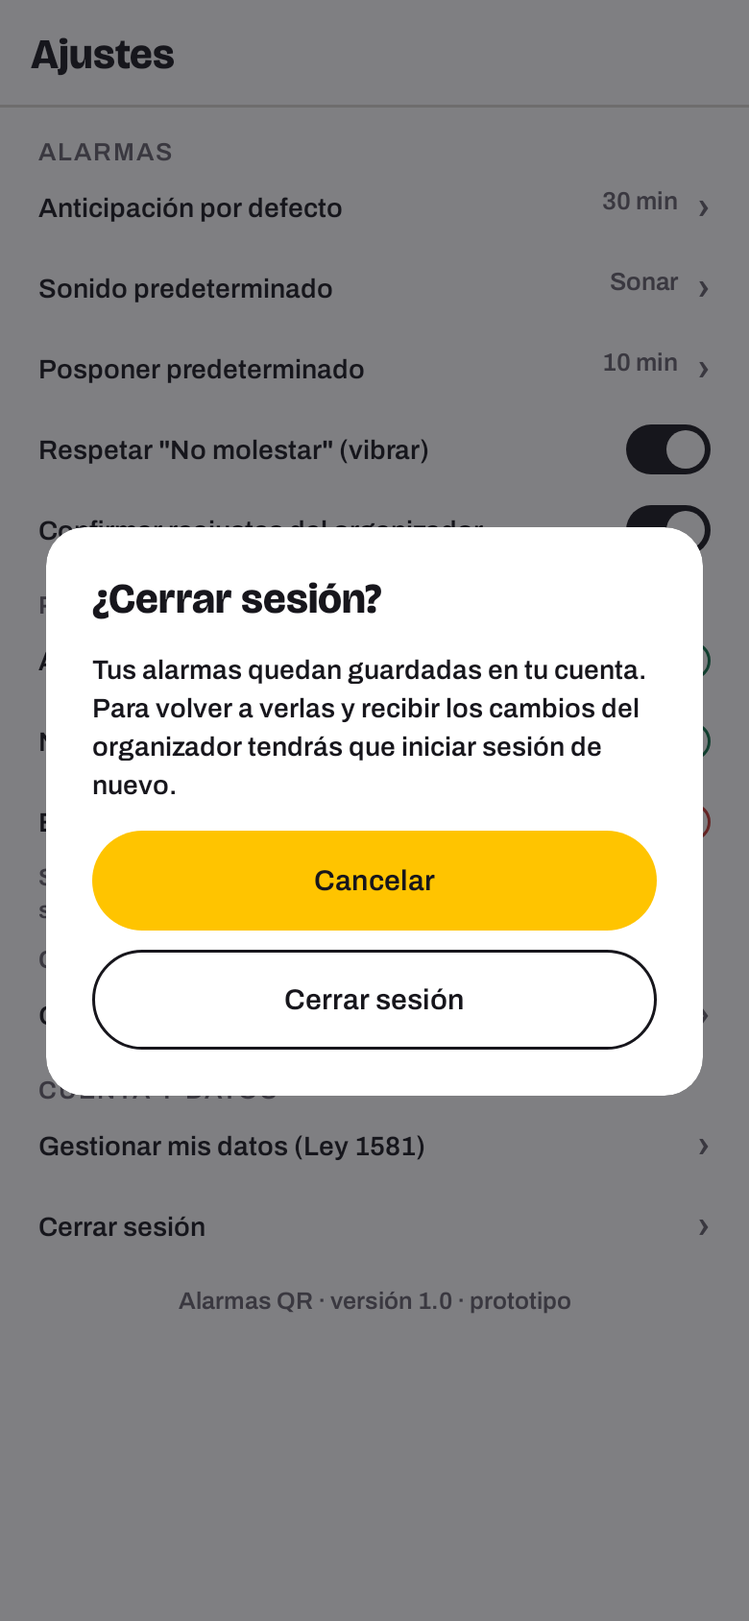
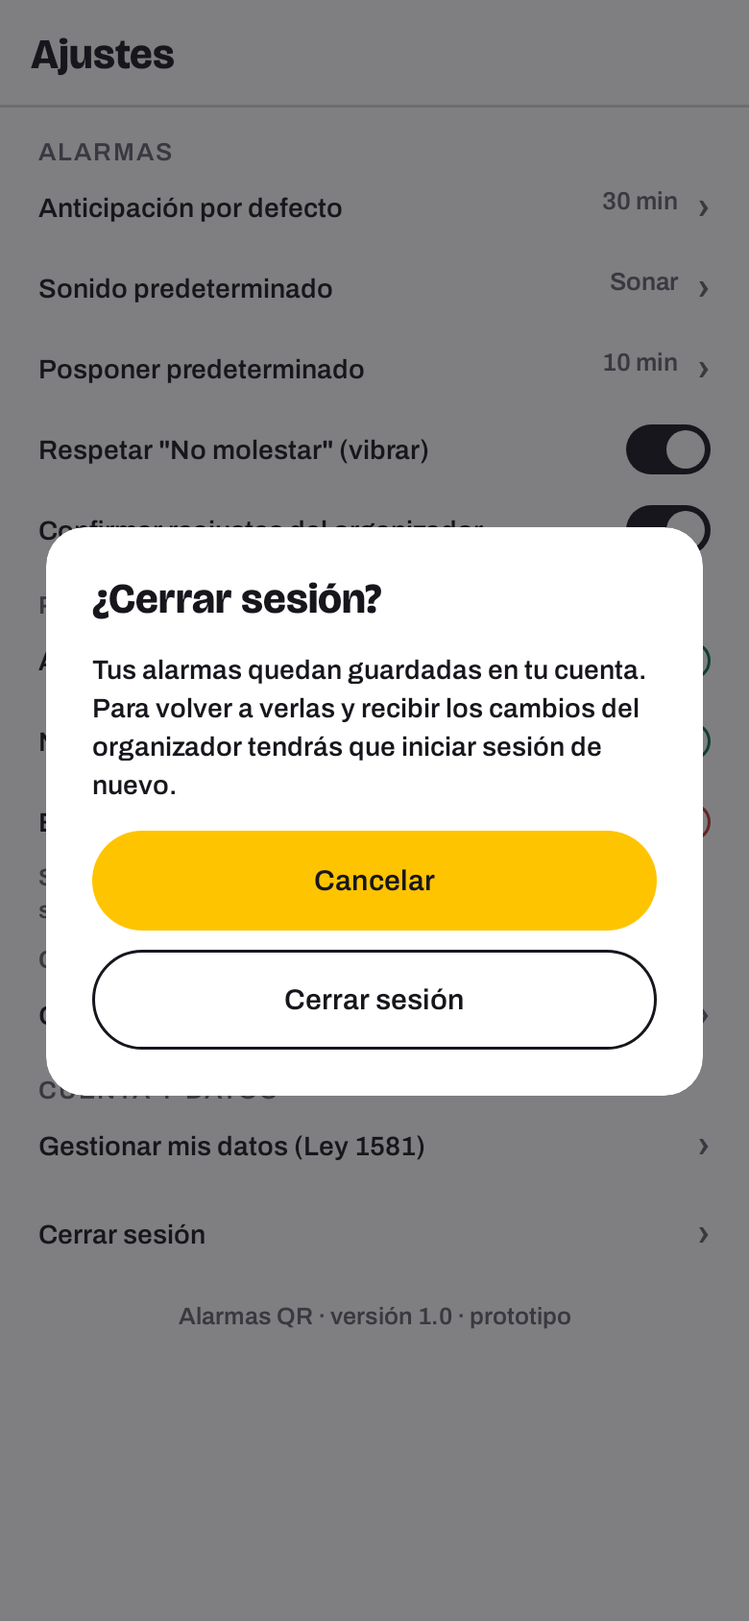
docs: guía de validación para el tutor y sincronía documento ↔ código
README: sección «Guía para el tutor» con siete pasos en orden (instalar el
APK, probar la web, probar el móvil en Android Studio, compilar el APK a mano,
comprobar la alarma con la app cerrada, publicar una Release y correr las
pruebas), cada uno con lo que debe verse y un recorrido de pantalla por
pantalla; más la recomendación de fnm/nvm para fijar Node 22.23.2 desde el
.nvmrc, que es lo que faltaba para poder levantar la web. Sección del Plan 4,
que no estaba, y las frases del Plan 2 y «Cómo continuar» que daban las
pantallas móviles por pendientes.

NAVEGACION §7 nueva: precedencia entre mockups, TRAZABILIDAD y los documentos,
y la tabla de divergencias ya resueltas — la arista M06 → M08 sale del mermaid
porque el marco de M06 no tiene control de compartir, que es justo el
malentendido que originó esta revisión. F-M08 y tres filas de TRAZABILIDAD
(M02b, M04, M08) quedan describiendo lo que el código hace.

Capturas de M02b, M06, M06d, M07, M08, M11 y M11d regeneradas tras los
ajustes, y anotado que el QR de M08 nunca sale igual dos veces porque su id
lleva la marca de tiempo. tokens.css de packages/tokens sincronizado con el de
la web (el job «datos» de CI compara los dos y habría fallado).

Verificado: testDebugUnitTest + lintDebug en verde; web con Node 22.23.2,
94 pruebas, build de producción y guardia de tokens en verde.

Changed region(s): [[0.2462, 0.8009, 0.7692, 0.8318], [0.0615, 0.7393, 0.2769, 0.7701]]

diff --git a/packages/tokens/tokens.css b/packages/tokens/tokens.css
@@ -1,4 +1,4 @@
-/* Alarmas QR · Energía puntual · tokens v1.19 (2026-09-22)
+/* Alarmas QR · Energía puntual · tokens v1.20 (2026-09-24)
    Derivado de design-tokens.json. Fuente de verdad: DESIGN_SYSTEM.md.
    Reglas: un solo amarillo por pantalla (la acción principal); estados activos en Tinta;
    texto ≤ 15 px usa los tonos --color-*-texto; botones 52 px en móvil (48 hasta v1.5) y 44 px en web; radio 14 (20 en el diálogo de confirmación).
@@ -43,8 +43,9 @@
   --font-ui: 'Archivo', 'Segoe UI', system-ui, sans-serif;
   --font-datos: 'Spline Sans Mono', ui-monospace, 'SFMono-Regular', monospace;
 
-  --text-hora-protagonista: 700 96px/1 var(--font-datos);
-  --text-hora-sonara: 700 52px/1 var(--font-datos);
+  /* 900 desde design-tokens v1.20 (ninguna pantalla web los usa hoy; se mantienen en espejo del token) */
+  --text-hora-protagonista: 900 96px/1 var(--font-datos);
+  --text-hora-sonara: 900 52px/1 var(--font-datos);
   --text-hora-tarjeta: 700 26px/1 var(--font-datos);
   --text-hora-ampm: 500 12px/1 var(--font-datos);
   --text-indicador-web: 700 24px/1.1 var(--font-datos);

diff --git a/README.md b/README.md
@@ -11,7 +11,150 @@ Alarmas QR crea alarmas escaneando el código QR de un evento, sin digitar fecha
 
 Investigación, prototipos y diseño viven en el repositorio de UX: https://github.com/alejortizp/alarmas-qr-ux. Una copia curada está en `docs/`.
 
+## Guía para el tutor · cómo validar la entrega
+
+Esta guía va en orden: lo más rápido primero. Cada paso dice qué se debe ver, para poder marcarlo como correcto.
+No hay backend ni cuentas reales: todos los datos salen de `dataset.json`, idéntico en las dos apps.
+
+### Paso 0 · Requisitos según lo que se quiera probar
+
+| Quiero… | Necesito |
+|---|---|
+| Instalar la app en un celular Android | Solo el celular (Android 8+). Nada más: el APK se descarga de la Release |
+| Ver la app web | Node **22.23.2** (o 24/26) y npm |
+| Abrir y compilar el proyecto móvil | JDK 17 y Android Studio con el SDK de Android 36. Gradle se descarga solo |
+
+**Sobre Node:** Angular 22 exige Node 22.22.3 o superior y se niega a arrancar con Node 20. La versión exacta está
+fijada en `apps/web/.nvmrc`. Si la máquina tiene otra, lo cómodo es un gestor de versiones que la cambie por
+carpeta: **[fnm](https://github.com/Schniz/fnm)** (`winget install Schniz.fnm`) o
+**[nvm-windows](https://github.com/coreybutler/nvm-windows)** en Windows, y **[nvm](https://github.com/nvm-sh/nvm)**
+en Linux/macOS. Con cualquiera de ellos, dentro de `apps/web` basta `fnm use` o `nvm use`, que leen el `.nvmrc`.
+
+### Paso 1 · Instalar el APK en un celular (5 minutos, sin herramientas)
+
+1. Abrir la pestaña **Releases** de este repositorio y descargar el `alarmas-qr-vX.Y.Z.apk` de la última versión.
+2. En el celular, permitir «instalar apps de origen desconocido» para el navegador o el gestor de archivos.
+3. Abrir el archivo e instalar. Con el celular conectado por USB también sirve `adb install -r alarmas-qr-vX.Y.Z.apk`.
+4. La app pide **permiso de cámara** (pantalla M12) y, en Android 13+, **permiso de notificaciones** la primera vez
+   que se programa una alarma. Sin el de notificaciones la alarma no se ve ni se oye (ver el Paso 5).
+
+Si todavía no hay ninguna Release, el APK se genera con el Paso 4 o etiquetando una versión (Paso 6).
+
+### Paso 2 · Probar la aplicación web
+
+```bash
+cd apps/web
+fnm use            # o nvm use · fija Node 22.23.2 desde .nvmrc
+npm ci             # instala las dependencias exactas del package-lock.json
+npx ng serve       # queda escuchando en http://localhost:4200
+```
+
+Abrir <http://localhost:4200> con la ventana **maximizada o en 1280×820 o más**: el diseño es pixel-perfect a esa
+medida y más angosto se degrada a propósito (bajo 1200 la barra lateral se colapsa sola; bajo 1100 las columnas de
+las páginas de dos columnas se apilan). Las credenciales son de mentira: cualquier texto entra.
+
+| # | Dónde | Qué hacer | Qué se debe ver |
+|---|---|---|---|
+| 1 | `/login` (W00) | «Iniciar sesión» | El tablero **W01 · Mis Alarmas**, con cuatro indicadores y la gráfica «Escaneos por semana» |
+| 2 | W01 | Pestañas «Próximos / Pasados / Borradores» y el filtro «Todos / Creados / Escaneados» | La tabla cambia; «Borradores» muestra el estado vacío |
+| 3 | W01 | «Ver detalle ›» de un evento | **W03 · Detalle Evento**, con la tabla anónima «Quiénes escanearon» (Ley 1581) y su paginador |
+| 4 | W03 | «Exportar reporte» | **W04 · Reportes**: rango, formato y la tarjeta lateral «Reportes generados» |
+| 5 | Barra lateral | «Descargar QR» | **W05**: selección de eventos, formato PNG/PDF y la vista previa del afiche |
+| 6 | W05 | «Descargar» | Vuelve a W01 con el aviso «Descarga completada exitosamente», que se va solo a los 3 s |
+| 7 | Barra lateral | «Ajustes de Perfil» → «Eliminar mi cuenta» | El modal exige escribir **ELIMINAR**; «Conservar mi cuenta» es la acción segura |
+| 8 | Barra lateral | «Cerrar Sesión» | Un diálogo de confirmación: «Cancelar» es el primario y el velo también cancela |
+
+El flujo T5 de `docs/TRAZABILIDAD.md` es exactamente el recorrido 1 → 6. Para detener el servidor: `Ctrl+C`.
+
+### Paso 3 · Probar la aplicación móvil en Android Studio
+
+1. Abrir Android Studio con **Open** y apuntar a la carpeta **`apps/movil`**, no a la raíz del repositorio (la raíz
+   no es un proyecto Gradle y el IDE no encontraría nada que sincronizar).
+2. Si pide actualizar el IDE o el Android Gradle Plugin, **actualizar el IDE**: el proyecto usa AGP 9.4.
+3. Esperar el «Gradle sync». La primera vez descarga Gradle 9.6 y las dependencias, y tarda varios minutos.
+4. Elegir un emulador (o un celular conectado con depuración USB) y darle **Run ▶**.
+
+| # | Dónde | Qué hacer | Qué se debe ver |
+|---|---|---|---|
+| 1 | M01 Bienvenida | «Comenzar» → M00a → «Crear cuenta» | **M02v**, el estado vacío «Aún no tienes alarmas» |
+| 2 | M02v / M02 | Tocar el FAB **«Escanear»** | **M12 · Permiso de cámara**; «Abrir ajustes» pide el permiso real y pasa a **M03** |
+| 3 | M03 Escáner | Apuntar la cámara a un QR que contenga `alarmasqr://evento/e-entrega`. **Sin cámara** (emulador): tocar el visor simula esa misma lectura | **M04**, la hoja «¡Alarma programada!» con los datos del evento |
+| 3b | M03 Escáner | Tocar «vibra al detectar el código» | **M13 · QR sin evento**, el desvío anti-quishing |
+| 4 | M04 | «Listo» | **M05**: la lista con la alarma nueva resaltada y el snackbar «Alarma guardada · Deshacer» de 5 s |
+| 5 | M05 | Tocar la alarma «Entrega de proyecto UX» | **M06 · Editar alarma**: anticipación, sonido, trayecto y notas |
+| 6 | M06 | Fila «Confirmar antes de auto-ajustarse» (⏩ simula el push del organizador) | **M09 · Cambio en tu evento**, con el antes/ahora y el bloque «SI ACEPTAS, SONARÁ» |
+| 7 | M09 | «Aceptar cambio» (⏩ salta a la hora del aviso) | **M10 · La alarma suena**, con la hora heroica y las dos acciones de 56 |
+| 8 | M06 | «Eliminar alarma» | El diálogo **M06d**: «Conservar» es el primario amarillo y tocar el velo también conserva |
+| 9 | Barra inferior | «Calendario» y «Ajustes» | **M02b** (mes navegable) y **M11 · Ajustes**, cuyo «Cerrar sesión» abre el diálogo M11d |
+| 10 | M02 | Mantener presionado el FAB medio segundo → «Crear a mano» | **M07**: «Guardar y crear QR» con el título vacío **no crea nada** y marca el campo; con título pasa a **M08**, el QR del evento |
+
+Los pasos 6 y 7 son los disparadores ⏩ que reemplazan al push del organizador y a la hora del aviso, que en la app
+real llegarían del sistema (`docs/NAVEGACION.md` §6). El paso 6 solo está disponible en las alarmas que traen un
+cambio del organizador en el dataset: «Entrega de proyecto UX», «Reunión semillero» y «Reunión con el tutor».
+
+### Paso 4 · Compilar el APK a mano
+
+Desde una terminal, sin abrir Android Studio (necesita JDK 17 y el SDK de Android 36):
+
+```bash
+cd apps/movil
+./gradlew assembleDebug     # APK en app/build/outputs/apk/debug/app-debug.apk
+./gradlew installDebug      # lo instala en el emulador o celular conectado
+./gradlew assembleRelease   # APK de release en app/build/outputs/apk/release/app-release.apk
+```
+
+En PowerShell o CMD el comando es `.\gradlew.bat assembleDebug`. Si Gradle no encuentra el SDK, crear
+`apps/movil/local.properties` con `sdk.dir=C\:\\Users\\<usuario>\\AppData\\Local\\Android\\Sdk`; Android Studio lo
+genera solo al abrir la carpeta. El APK de release se firma con el **keystore de depuración**, suficiente para
+instalarlo en un celular de prueba, pero no para publicar en Google Play.
+
+### Paso 5 · Comprobar que la alarma suena con la app cerrada
+
+Es la única capacidad real de la maquetación y necesita un celular o emulador de verdad:
+
+1. Llegar a **M04** (Paso 3): ahí se programa una alarma real con `AlarmManager`.
+2. Conceder el permiso de **notificaciones** que pide Android 13+. Sin él no hay nada que ver ni oír.
+3. En Android 14+, activar además «Notificaciones de pantalla completa» en Ajustes → Apps → Alarmas QR →
+   Notificaciones, para que aparezca sobre la pantalla de bloqueo.
+4. **Cerrar la app** (o bloquear el celular) y esperar **un minuto**: como el dataset vive en agosto de 2026 la hora
+   de la alarma ya pasó, así que se reprograma a *ahora + 1 minuto* para poder demostrarla.
+5. Debe llegar la notificación a pantalla completa; al tocarla abre **M10 · La alarma suena**.
+
+Las alarmas **no sobreviven a un reinicio** del celular: reprogramarlas tras el arranque quedó fuera del alcance.
+
+### Paso 6 · Generar una Release con el APK (opcional)
+
+El APK de las Releases lo compila GitHub Actions al empujar un tag de versión:
+
+```bash
+git tag v1.0.0
+git push origin v1.0.0
+```
+
+`.github/workflows/apk.yml` compila `assembleRelease` y publica la Release con `alarmas-qr-v1.0.0.apk` adjunto. En
+cada pull request corre además `.github/workflows/ci.yml`: lint y pruebas de las dos apps, build de producción de la
+web y una comprobación de que `dataset.json` y `tokens.css` son idénticos en móvil, web y `packages/tokens`.
+
+### Paso 7 · Correr las pruebas
+
+```bash
+cd apps/movil && ./gradlew testDebugUnitTest lintDebug    # Compose + Robolectric
+cd apps/web   && npm ci && npx ng test --watch=false      # Vitest + TestBed
+```
+
+Móvil cubre los flujos T1–T4, T6 y T7 de `docs/TRAZABILIDAD.md`, la regla de scroll vertical y las capturas de
+verificación contra Figma; web cubre T5 y T8. Las capturas y su comparación con los marcos de Figma están en
+`docs/verificacion/` (una pareja de imágenes por pantalla, con las diferencias aceptadas explicadas una por una).
+
+### Qué queda fuera del alcance
+
+No hay persistencia (todo vive en memoria y se reinicia al cerrar la app), ni backend, ni autenticación real; las
+alarmas no se reprograman tras reiniciar el celular. Las divergencias conocidas entre la documentación de UX y lo
+construido están registradas, con su resolución, en `docs/NAVEGACION.md` §7.
+
 ## Cómo correr
+
+Resumen para quien ya conoce el proyecto; el paso a paso explicado está en «Guía para el tutor», arriba.
 
 Requisitos: JDK 17, Android Studio compatible con AGP 9.4 (si al sincronizar pide actualizar el IDE, actualizarlo) con Android SDK 36 y un emulador o dispositivo con Android 8+ (minSdk 26); Node 22.23.2 (`nvm use`, ver `apps/web/.nvmrc`) y npm 10.
 
@@ -57,6 +200,8 @@ npx ng build --configuration production
 
 ## Instalar el APK
 
+Versión corta; los detalles y qué debe verse están en «Guía para el tutor», Paso 1.
+
 1. Descargar el `.apk` de la última **Release** de este repositorio.
 2. En el celular, permitir «instalar apps de origen desconocido» para el navegador o gestor de archivos.
 3. Abrir el archivo e instalar. Alternativa con el celular conectado: `adb install -r alarmas-qr-vX.Y.Z.apk`.
@@ -90,7 +235,7 @@ Convenciones de git: una rama por pantalla o flujo (`feature/M06-editar-alarma`)
 
 Doce pantallas de `apps/movil` pixel-perfect contra Figma, con cámara y alarma reales (`docs/superpowers/plans/2026-09-20-plan2-movil-persona-a.md`).
 
-**Pantallas hechas** (todas registradas en `navegacion/EntradasApp.kt`): M01 «Bienvenida», M00a «Crear cuenta», M00b «Iniciar sesión», M02v «Inicio · sin alarmas», M02 «Mis alarmas», M02h «Agregar evento» (hoja), M12 «Permiso de cámara», M03 «Escanear QR» (CameraX + ML Kit real), M13 «QR no reconocido», M03b «Pantallazo recibido», M04 «Alarma programada» (hoja) + M04d «¿Eliminar alarma?» (diálogo), M05 «Guardada + Deshacer». Fuera de alcance (siguen en el marcador de la Fase 0 hasta que la Persona B las construya): M02b, M06–M11, M07, M08.
+**Pantallas hechas** (todas registradas en `navegacion/EntradasApp.kt`): M01 «Bienvenida», M00a «Crear cuenta», M00b «Iniciar sesión», M02v «Inicio · sin alarmas», M02 «Mis alarmas», M02h «Agregar evento» (hoja), M12 «Permiso de cámara», M03 «Escanear QR» (CameraX + ML Kit real), M13 «QR no reconocido», M03b «Pantallazo recibido», M04 «Alarma programada» (hoja) + M04d «¿Eliminar alarma?» (diálogo), M05 «Guardada + Deshacer». Fuera del alcance de este plan: M02b y M06–M11, construidas después por el Plan 4 (ver abajo).
 
 **Cómo probar la cámara:** desde M02 (o M02v), tocar el FAB «Escanear» (o «Escanear QR del evento») abre M12, que pide el permiso real `CAMERA`; «Abrir ajustes» completa la solicitud (o abre los ajustes de la app si el sistema ya no va a volver a preguntar) y navega a M03 con el visor encendido. Apuntar un QR con el contenido `alarmasqr://evento/e-entrega` (el único evento con QR del dataset) crea la alarma real («Entrega de proyecto UX») y navega a M04. Cualquier otro QR —por ejemplo uno con una URL— navega a M13 («QR sin evento»), cuyo enlace intenta abrirlo con `Intent.ACTION_VIEW`. El chip «Linterna · auto» enciende la lámpara del dispositivo (`LifecycleCameraController.enableTorch`).
 **Sin cámara real** (emulador sin cámara, o para no tener que imprimir un QR): los dos toques ⏩ de M03 simulan la lectura — tocar el visor («Apunta al código QR del evento») simula leer el QR de `e-entrega` (mismo resultado que escanearlo); tocar «vibra al detectar el código» simula un QR inválido (→ M13). `FlujosPersonaATest` usa estos mismos toques ⏩, no la cámara real.
@@ -189,6 +334,36 @@ A 1280 los dos cortes quedan por encima, así que las capturas de `docs/verifica
 - El snackbar descentrado de «correo enviado».
 - El estado apagado del switch y la excepción del logotipo amarillo.
 
+## Plan 4 · móvil de la Persona B
+
+Las ocho pantallas móviles que faltaban, con lo que cierra el recorrido completo de la app
+(`docs/superpowers/plans/2026-09-23-plan4-movil-persona-b.md`).
+
+**Pantallas hechas** (registradas en `navegacion/EntradasApp.kt`, ya no quedan marcadores de la Fase 0 en móvil):
+
+- M02b «Vista calendario» (`/calendario`): mes navegable con marca en los días con alarmas, detalle del día
+  seleccionado y el selector «Lista / Mes» de la barra superior.
+- M06 «Editar alarma» (`/alarma/:id`): tarjeta de resumen, anticipación, trayecto, sonido, «No molestar», posponer,
+  cambios del organizador, notas, «Gestionar en el calendario» y el diálogo M06d.
+- M07 «Crear evento a mano» (`/evento/nuevo`): formulario con validación inline del título, que crea la alarma y su
+  evento QR (`RepositorioDataset.crearAlarmaManual`).
+- M08 «QR del evento» (`/evento/:id/qr`): QR real del evento, compartir por WhatsApp/correo/otras apps con intents
+  reales, y descargar o copiar el enlace simulados con snackbar.
+- M09 «Cambio en tu evento» (`/alarma/:id/cambio`): notificación del organizador con el antes/ahora y las dos salidas.
+- M10 «La alarma suena» (`/alarma/:id/sonando`): destino real de la notificación de pantalla completa que programa
+  el `AlarmManager`.
+- M11 «Ajustes» (`/ajustes`): ajustes por defecto, permisos del sistema, calendarios, cuenta y el diálogo M11d.
+
+**Flujos cubiertos:** T2, T3 y T4 en `navegacion/FlujosPersonaBTest.kt`, sumados a T1, T6 y T7 de la Persona A.
+
+**Ajustes posteriores a la revisión (2026-09-24):** los días del mes vecino de M02b usan Gris Texto (tono AA, no el
+Gris Borde de los bordes); las filas de ajuste que navegan miden 48 por el área táctil mínima, aunque el mockup las
+dibuja de 40; la hora de M07 va en Spline Sans Mono con dígitos tabulares; «Guardar y crear QR» no crea nada con el
+título vacío; y el peso de las horas grandes subió a Black en el token y en el Design System (`design-tokens.json`
+v1.20, DS v1.12), que hasta entonces decían Bold. Las divergencias entre la documentación de UX y lo construido
+quedaron registradas en `docs/NAVEGACION.md` §7 — entre ellas, que **a M08 solo se llega desde M07**: el marco de
+M06 no tiene control de compartir, aunque el mapa de navegación dibujaba esa arista.
+
 ## Plan 5 · web de la Persona B
 
 Cuatro páginas de tablero de `apps/web`, cerrando las siete páginas web de TRAZABILIDAD (`docs/superpowers/plans/2026-09-21-plan5-web-persona-b.md`).
@@ -231,6 +406,7 @@ Cuatro páginas de tablero de `apps/web`, cerrando las siete páginas web de TRA
   - No uses `ColumnaDesplazable` en pantallas cuyo contenido ya se estira para llenar el alto, como un visor de cámara (M03).
   - Agrega tu pantalla a `PantallasDesplazablesTest`: el último elemento debe alcanzarse con `performScrollTo()` a 390×560.
 - Móvil: cada pantalla es una clave en `navegacion/Pantalla.kt`, pero desde el Plan 2 las pantallas **reales** (ya construidas por la Persona A) se registran todas en un único lugar, `navegacion/EntradasApp.kt` (`fun EntryProviderScope<NavKey>.entradasApp(pila, repositorio) { entry<Pantalla.M01> { … } … }`); tanto `MainActivity` como las pruebas de flujo (`FlujosPersonaATest`) pasan ese mismo bloque a `NavegacionApp(pila, repositorio) { entradasApp(pila, repositorio) }`. Para construir M06: añadir su `entry<Pantalla.M06> { clave -> M06EditarAlarmaScreen(clave.id, …) }` dentro de `entradasApp` (no en `MainActivity`) y crear `ui/pantallas/m06/M06EditarAlarmaScreen.kt` (+ `ViewModel` si hay estado que muta). El marcador (`PantallaMarcador`) desaparece solo — `NavegacionApp` arma su `NavDisplay` con `entryProvider(fallback = { clave -> entradaMarcador(clave, alVolver) }) { entradas() }`, así que el `fallback` solo dibuja las claves que `entradas` no registró; las pantallas reales tienen prioridad por construcción, no por orden. Cada clase de pantalla debe registrarse una sola vez dentro de `entradas`: Navigation 3 lanza una excepción si una clave se registra dos veces. Las hojas M02h y M04 se registran con `entry<Pantalla.M04>(metadata = HojaInferiorSceneStrategy.hoja()) { … }`; sin ese metadato se dibujan a pantalla completa. Un `ViewModel` con estado que sobrevive a recomposiciones se crea con `viewModel { MiViewModel(repositorio) }` (o `viewModel(key = clave.id) { … }` cuando la clave lleva un id, como M04/M05) dentro de la `entry`, no fuera: el decorador `rememberViewModelStoreNavEntryDecorator()` ya está registrado en `NavegacionApp` (`entryDecorators = listOf(rememberSaveableStateHolderNavEntryDecorator(), rememberViewModelStoreNavEntryDecorator())`), así que no hay que añadirlo. El snackbar único de la app es `LocalSnackbarApp.current` (un `SnackbarHostState` provisto por `NavegacionApp`, comparte Scaffold con el FAB); no crear otro `SnackbarHostState` por pantalla. La notificación de la alarma abre M10 vía `NotificacionesAlarma.intentSonando(context, id)`, que arma un `Intent` a la ruta `alarma/{id}/sonando` (deep link resuelto por `destinoDesdeIntent` → `Pantalla.porRuta` en `MainActivity`); M10 (marcador hasta que la Persona B lo construya) es el destino real de "sonando la alarma". Los componentes compartidos (botones, campos, chips, tarjetas, snackbar, diálogo, etc.) viven en `ui/componentes/` y solo usan `Tokens.kt`. Datos: `RepositorioDataset` (`alarmas`, `alarma(id)`, `agregar`, `agregarDesdeEvento`, `eliminar`, `deshacer`, `cambiarEstado`). Pruebas: `createComposeRule` + Robolectric, navegar con `pila.irA(Pantalla.M06("a-tutor"))` y afirmar `testTag("pantalla-M06")`; los ayudantes de prueba `ui/Verificacion.kt` dan `capturar(nombre)` (captura de verificación pixel-perfect, ahora compone todas las ventanas Android visibles — hojas y diálogos incluidos, ver `docs/verificacion/README.md`) y la constante `QUALIFIERS_MOVIL` (qualifiers de Robolectric para el marco 390×844 a 2×). Nota: `Pantalla.todas` y `Pantalla.inicio` son `by lazy` en el companion porque la interfaz `Pantalla` tiene getters con valor por defecto (ciclo de inicialización de la JVM); no "simplificarlos" quitando el `lazy`. Tres rutas son sintéticas y no están literalmente en TRAZABILIDAD §1 (M01 `bienvenida`, M02v `inicio/vacio`, M05 `inicio/guardada/{id}`): ver el KDoc de cada una en `Pantalla.kt`.
+- **Las dos apps están completas:** el Plan 5 cerró las páginas web y el Plan 4 las pantallas móviles que faltaban. Lo que sigue son las reglas vigentes para cualquier pantalla nueva.
 - Web: **ya está hecha.** El Plan 5 construyó las cuatro páginas que faltaban (W01, W03, W04, W05 — ver «Plan 5 · web de la Persona B» arriba), así que `apps/web` no tiene más trabajo pendiente de la Persona B. Sigue el **Plan 4** (móvil: M02b, M06–M11), con las reglas de abajo.
 - Convenciones: rama por pantalla, commit «M06: …», PR revisado por el otro integrante; tokens siempre, nunca valores a mano.
 

diff --git a/docs/NAVEGACION.md b/docs/NAVEGACION.md
@@ -14,7 +14,7 @@ Exportables: `Mapa_Navegacion_Movil.pdf` y `Mapa_Sitio_Web.pdf` (raíz).
 | UF-M03.1 | Escanear con cámara | 3 + 2 desvíos | M02 → M03 → M04 · desvíos M12, M13 | Vibración al detectar, linterna automática, marco guía |
 | UF-M03.2 | Importar pantallazo | 4 | M02/M03 → galería (SO) → M04 · desvío M13 | «No se pudo leer» si el QR no es legible |
 | UF-M04.1 | Revisar alarma programada | 2 | M04 → M05 | «Guardada automáticamente», snackbar «Alarma guardada · También en Google Calendar» |
-| UF-M07.1 | Crear alarma propia + QR | 3 | M02 → M07 → M05 (opcional M08) | Validación inline, «Alarma y QR creados» |
+| UF-M07.1 | Crear alarma propia + QR | 3 | M02 → M07 → M08 | Validación inline del título (obligatorio); el QR del evento se genera al guardar |
 | UF-M10.1 | Atender la alarma | 2 | M10 → app de mapas (SO) | Sonido o vibración según «No molestar», «Sal en X min», re-aviso a los 5 min |
 | UF-M12.1 | Conceder permiso de cámara | 3 | M12 → ajustes del SO → M03 | Por qué se pide el permiso, estado del permiso al volver |
 
@@ -56,7 +56,6 @@ M04 -->|"Listo · snackbar guardada"| M05["M05 · Inicio · confirmación<br>+ D
 M02 -->|"+ Nueva alarma"| M07["M07 · Nueva alarma propia"]:::mvp
 M07 -->|"QR creado"| M08["M08 · Compartir QR"]:::pantalla
 M02 -->|"Tocar una alarma"| M06["M06 · Detalle y ajuste"]:::pantalla
-M06 -->|"Compartir"| M08
 M06 -.->|"⏩ Alarma conectada ·<br>simula el push"| M09
 M02 -->|"Ajustes"| M11["M11 · Ajustes"]:::pantalla
 PUSH(["Push · cambio del evento"]):::sys -.-> M09["M09 · Cambio en el evento"]:::pantalla
@@ -179,3 +178,32 @@ Prototipo publicado (abre en W00, un solo punto de inicio «Inicio» `4072:1861`
 | 11 | W03 Detalle | «2» / «›» del paginador · tocar «Buscar asistente» · «Exportar reporte» | **W03 (página 2)** · **W03 (búsqueda de asistente)** · W04 | Paginación, búsqueda y exportación desde el detalle (F-W03, F-W04) |
 
 **Áreas de toque (web v1.1, 2026-09-14):** ya no hay conexiones sobre texto: «Ver detalle ›» cuelga de su marco, la fila de cabecera de cada modal (miga + «✕») es un solo control que cierra → W01 y la miga de W03 tiene su propio marco. Detalle en `MOCKUPS.md` §7.4.
+
+## 7 · Sincronía con el código (2026-09-24)
+
+`docs/` es una **copia** del repositorio de UX y describe el **prototipo de Figma**; `apps/` es la maquetación
+construida. Cuando los dos no coinciden, el orden de precedencia que sigue el equipo es:
+
+1. **Los mockups de Figma** (`MOCKUPS.md` §5 y el archivo `4nHD4ygcnP33UH0gAhaii5`) — mandan sobre todo lo demás.
+2. **`TRAZABILIDAD.md` §1**, que es la tabla pantalla → ruta → destinos que el código implementa literalmente.
+3. Este documento y `FUNCIONALIDADES.md`, que describen el recorrido y el contrato funcional.
+
+Si una frase de este documento contradice un marco de Figma, **el que se corrige es el documento**, primero en el
+repositorio de UX y después volviendo a copiar `docs/`. Esta tabla registra las divergencias ya resueltas, para que
+nadie vuelva a implementar contra una frase que no corresponde a ningún mockup:
+
+| Divergencia | Qué decía el documento | Qué manda | Estado |
+|---|---|---|---|
+| **M06 → M08 «Compartir»** | El mermaid de §3 dibujaba esa arista y F-M08 hablaba del QR de «cualquier alarma guardada» | El marco 5:2 de M06 **no tiene ningún control de compartir**, y TRAZABILIDAD §1 tampoco lo lista | Arista retirada del mermaid (2026-09-24). A M08 solo se llega desde M07 «Guardar y crear QR». Pendiente de replicar en el repo de UX |
+| **M08 «‹»** | TRAZABILIDAD §1 dice «‹» → M02 | El código vuelve a **M05** (la misma confirmación del flujo de escaneo) para que la alarma recién creada a mano también se vea resaltada una vez | Decisión de código, documentada aquí y en el KDoc de la entrada M08. Pendiente de reflejar en TRAZABILIDAD |
+| **M02b · selector «Lista / Mes»** | No aparece en TRAZABILIDAD §1, y §6 decisión (c) dice que no se agregan elementos nuevos | El marco 4:2 de M02b **sí dibuja** el selector segmentado en la barra superior | Implementado como en el mockup; «Lista» vuelve a M02. Pendiente de añadir la fila en TRAZABILIDAD |
+| **M04 «Editar»** | La fila M04 de TRAZABILIDAD solo lista «Listo» → M05 y el descarte → M04d | El bloque «Sonará» del marco de M04 trae el enlace «Editar», y F-M04 habla del aviso calculado «editable» | Implementado: «Editar» → M06. Pendiente de añadir el destino en TRAZABILIDAD |
+| **M07 · validación** | UF-M07.1 pedía «validación inline» sin decir sobre qué campo | El título es el único campo obligatorio del marco 5:60 | Implementado: «Guardar y crear QR» no crea nada con el título vacío y el campo toma el estado de error del DS |
+| **Filas de ajuste de 40 pt** | DS §5 v1.6 (comentario 8 de los tutores) fija filas de 40 | La regla de área táctil mínima de 48 del mismo DS | Manda la accesibilidad: la fila que **navega** mide 48; la que solo lleva un switch se queda en 40 |
+| **Peso de las horas grandes** | DS §7 y `design-tokens.json` decían Bold 700 | El trazo de los marcos M09/M10 solo se reproduce en Android pidiendo 900 | Token y DS actualizados a 900 (`design-tokens.json` v1.20, DS v1.12). Pendiente de replicar en el repo de UX |
+
+**Recorridos del prototipo (⏩) tal como quedaron en la app:** el visor de M03 y «vibra al detectar el código»
+simulan la lectura del QR; «Abrir ajustes» de M12 pide el permiso real; la fila «Confirmar antes de auto-ajustarse»
+de M06 abre M09 **solo en las alarmas que traen un cambio del organizador en `dataset.json`** (`a-entrega`,
+`a-semillero`, `a-tutor`), porque no hay un push real que simular en las demás; y «Aceptar cambio» de M09 lleva a
+M10, el salto temporal a la hora del aviso.

diff --git a/docs/TRAZABILIDAD.md b/docs/TRAZABILIDAD.md
@@ -21,14 +21,14 @@ Convenciones:
 | M02v | Inicio · sin alarmas (primer uso) | F-M02 | `/inicio` (estado vacío) | `PantallaInicio` con `EstadoVacio` | «Escanear QR del evento» → M12 ⏩ · «Elegir pantallazo» → M03b · «Crear el evento a mano» → M07 |
 | M02 | Inicio · lista | F-M02 | `/inicio` | `PantallaInicio` | FAB toque → M12 ⏩ (primer uso) o M03 · FAB mantener → M02h · tarjeta → M06 · Calendario → M02b · Ajustes → M11 |
 | M02h | Agregar evento (hoja) | F-M02 | `/inicio/agregar` (hoja modal) | `HojaAgregarEvento` | «Escanear el QR» → M12 ⏩ / M03 · «Elegir pantallazo» → M03b · «Crear a mano» → M07 |
-| M02b | Vista calendario | F-M02 | `/calendario` | `PantallaCalendario` | tarjeta → M06 · FAB igual que M02 · Alarmas → M02 |
+| M02b | Vista calendario | F-M02 | `/calendario` | `PantallaCalendario` | tarjeta → M06 · FAB igual que M02 · Alarmas → M02 · selector «Lista / Mes» de la barra superior (marco 4:2): «Lista» → M02 |
 | M03b | Pantallazo recibido | F-M03 | `/pantallazo` | `PantallaPantallazoRecibido` | «Continuar» → M04 · «Elegir otra imagen» → galería |
 | M03 | Escáner dual | F-M03 | `/escanear` | `PantallaEscaner` | QR detectado → M04 · QR inválido → M13 · «Elegir pantallazo» → M03b · «Crear el evento a mano» → M07 · «Linterna · auto» = control de 32 en la barra (`ChipControl`, v1.7) |
-| M04 | Alarma creada | F-M04 | `/alarma/:id/creada` | `PantallaAlarmaCreada` | «Listo» → M05 · «No puedo asistir · eliminar» → diálogo M04d («Conservar» / velo cierra · «Eliminar» → M02) |
+| M04 | Alarma creada | F-M04 | `/alarma/:id/creada` | `PantallaAlarmaCreada` | «Listo» → M05 · «Editar» (enlace del bloque SONARÁ) → M06 · «No puedo asistir · eliminar» → diálogo M04d («Conservar» / velo cierra · «Eliminar» → M02) |
 | M05 | Guardada + deshacer | F-M05 | `/inicio` (con snackbar) | `PantallaInicio` + `SnackbarDeshacer` | «Deshacer · 5 s» revierte · tarjeta nueva → M06 |
 | M06 | Detalle y edición | F-M06 | `/alarma/:id` | `PantallaEditarAlarma` | «Guardar cambios» → M02 · «Eliminar alarma» → diálogo M06d («Conservar» / velo cierra · «Eliminar» → M02) · fila «Cambios del organizador» → M09 ⏩ · «Gestionar en el calendario» → M02b |
 | M07 | Crear evento a mano | F-M07 | `/evento/nuevo` | `PantallaCrearEvento` | «Guardar y crear QR» → M08 |
-| M08 | QR del evento | F-M08 | `/evento/:id/qr` | `PantallaCompartirQR` | «Compartir por WhatsApp» → hoja del SO · «‹» → M02 |
+| M08 | QR del evento | F-M08 | `/evento/:id/qr` | `PantallaCompartirQR` | Se llega solo desde M07 · «Compartir por WhatsApp» → hoja del SO · «Correo» / «Más» → apps del SO · «Descargar PNG/PDF» y «Copiar enlace» → snackbar · «‹» → M05 (confirmación de la alarma recién creada, ver `NAVEGACION.md` §7) |
 | M09 | Cambio del organizador | F-M09 | `/alarma/:id/cambio` | `PantallaCambioEvento` | «Aceptar cambio» → M10 ⏩ · «Mantener alarma» / «×» → M02 · título → M06 · «×» al margen derecho de la barra (v1.7) |
 | M10 | Alarma sonando | F-M10 | `/alarma/:id/sonando` (pantalla completa) | `PantallaAlarmaSonando` | «Ya voy» / «Posponer 10 min» → M02 · «Ver ruta ›» → mapas del SO |
 | M11 | Ajustes | F-M11 | `/ajustes` | `PantallaAjustes` | Alarmas → M02 · fila «Cerrar sesión» → diálogo M11d («Cancelar» / velo cierra · «Cerrar sesión» → M01) |

diff --git a/docs/verificacion/README.md b/docs/verificacion/README.md
@@ -17,6 +17,8 @@ correspondiente. Estas nueve capturas se regeneraron el 2026-09-24 tras los redi
 (con `./gradlew testDebugUnitTest` y copiadas desde `apps/movil/app/build/verificacion/`), y sus filas describen lo
 que se ve en esa versión.
 
+**Ajustes del 2026-09-24 (posteriores a la fusión del Plan 4):** M02b, M06, M06d, M07, M08, M11 y M11d se volvieron a capturar después de cuatro correcciones que cambian píxeles — los días del mes vecino de M02b pasan de Gris Borde a Gris Texto; las filas de ajuste que navegan (M06 «Gestionar en el calendario», M11 «Cerrar sesión» y las de los diálogos detrás) miden 48 en vez de 40 por el área táctil mínima; la hora de M07 va en Spline Sans Mono; y el peso de las horas grandes subió a Black. Nota sobre M08: el QR del evento **nunca sale igual dos veces**, porque `crearAlarmaManual` arma el id con `System.currentTimeMillis()` y el contenido del QR cambia en cada corrida; su captura solo se compara por estructura, no píxel a píxel.
+
 | Código | Marco Figma | Estado |
 |---|---|---|
 | M01 | 3:71 | ok · diferencias: párrafo parte en 3 líneas en vez de 2 (métrica de fuente de Robolectric); ver nota abajo sobre `capturar()` |

diff --git a/docs/FUNCIONALIDADES.md b/docs/FUNCIONALIDADES.md
@@ -61,7 +61,9 @@ Documento de referencia del prototipo de baja fidelidad (mockups en `mockups/`).
 - **El código QR se genera automáticamente al guardar** ("Guardar y crear QR").
 
 ### F-M08 · Difusión y descarga de QR por alarma — pantalla M08
-- Visualización del QR de **cualquier alarma guardada (propia o escaneada)**.
+- Visualización del QR de **un evento propio**, creado a mano en M07. Hasta el 2026-09-24 esta línea decía
+  «cualquier alarma guardada (propia o escaneada)», pero el marco 5:2 de M06 no tiene control de compartir y una
+  alarma escaneada es de un evento ajeno, del que el asistente no difunde el QR (ver `NAVEGACION.md` §7).
 - Compartir por WhatsApp, correo o redes; descargar como imagen (PNG/PDF); copiar enlace; contador de escaneos.
 
 ### F-M09 · Sincronización push y reajuste por cambios — pantalla M09
